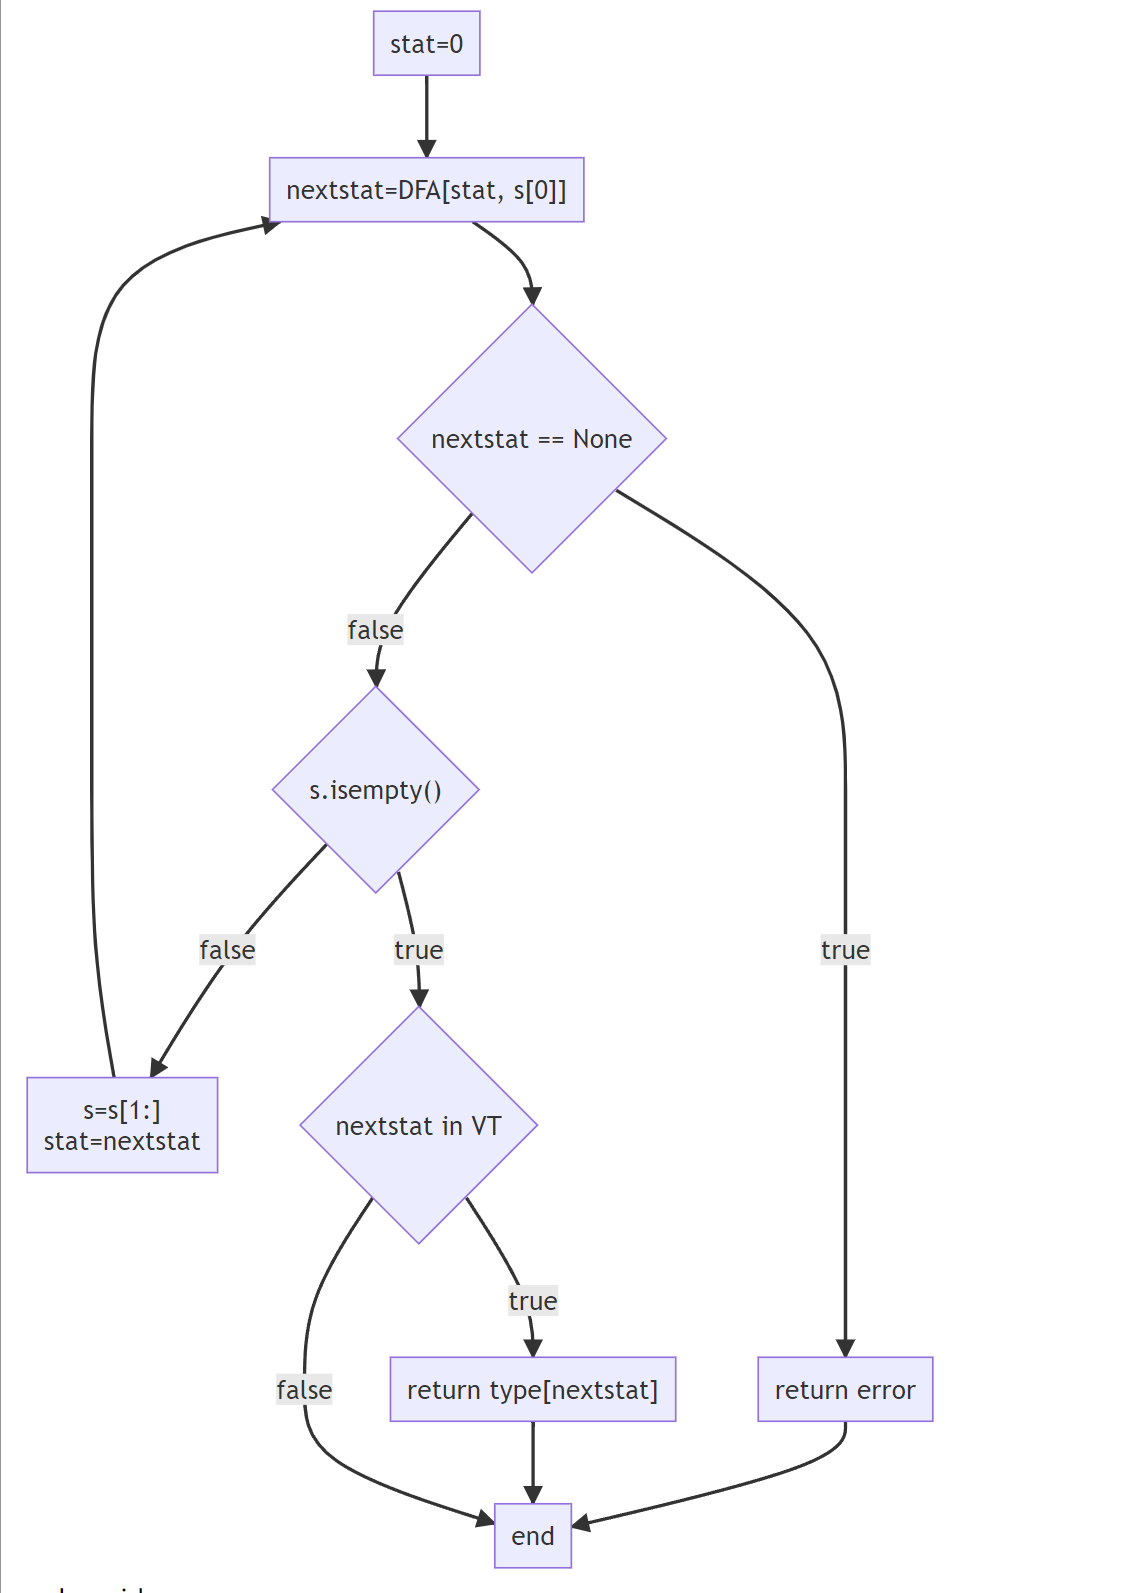
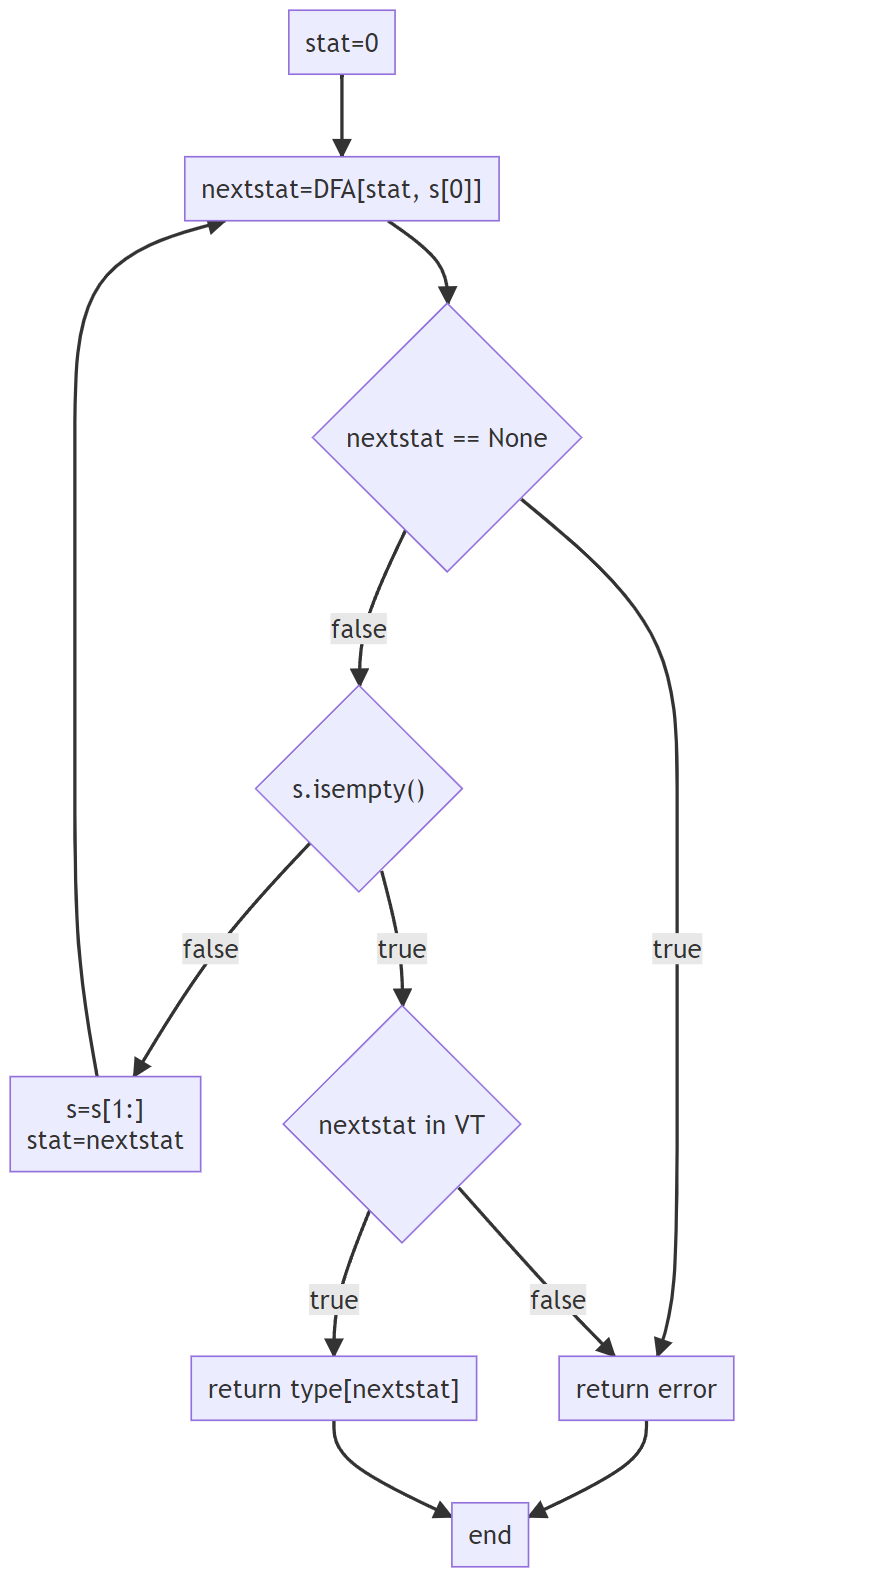
commit

diff --git a/pics&charts/charts.html b/pics&charts/charts.html
@@ -19,12 +19,12 @@
             id3--false-->id5
             id6{"i != len(edges)"}
             id5-->id6
-            id7["S'=ε-closure(moveto(S', edges[i]))"]
+            id7["S'=ε-closure(moveto(S', edges[i]))<br>DFA[(S, edges[i])] = S'"]
             id6--true-->id7
             id6--false-->id3
             id8{"S' in E"}
             id7-->id8
-            id9["C.append(S')<br>E.append(S')<br>DFA[(S, edges[i])] = S'"]
+            id9["C.append(S')<br>E.append(S')"]
             id8--false-->id9
             id8--true-->id6
             id9-->id6
@@ -62,7 +62,7 @@
             id6-->id3
             id1--true-->id7{"nextstat in VT"}
             id7--true-->id8["return type[nextstat]"]-->id2
-            id7--false-->id2
+            id7--false-->id5
         </div>
         canbevoid
         <div class="mermaid">
